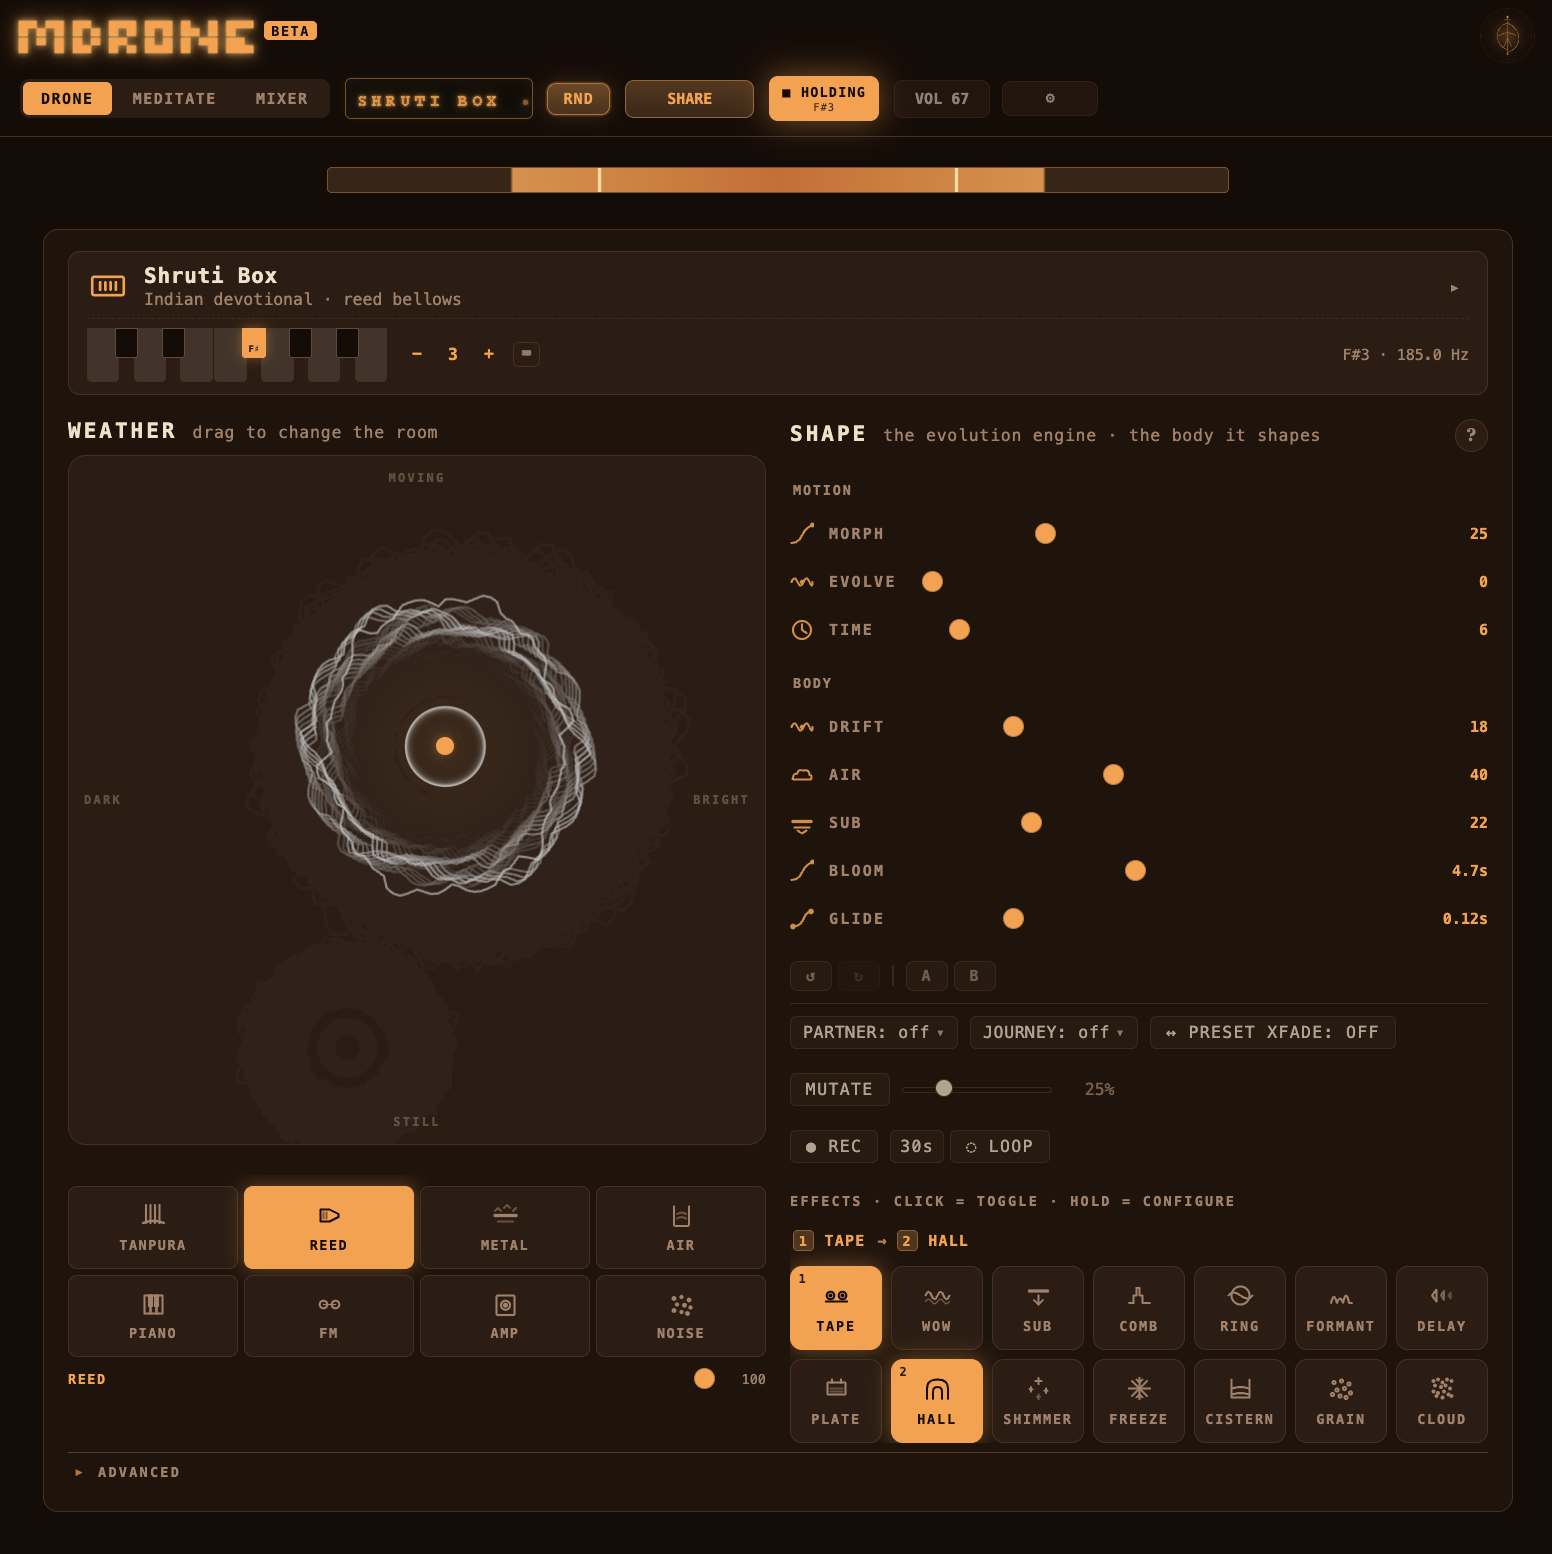
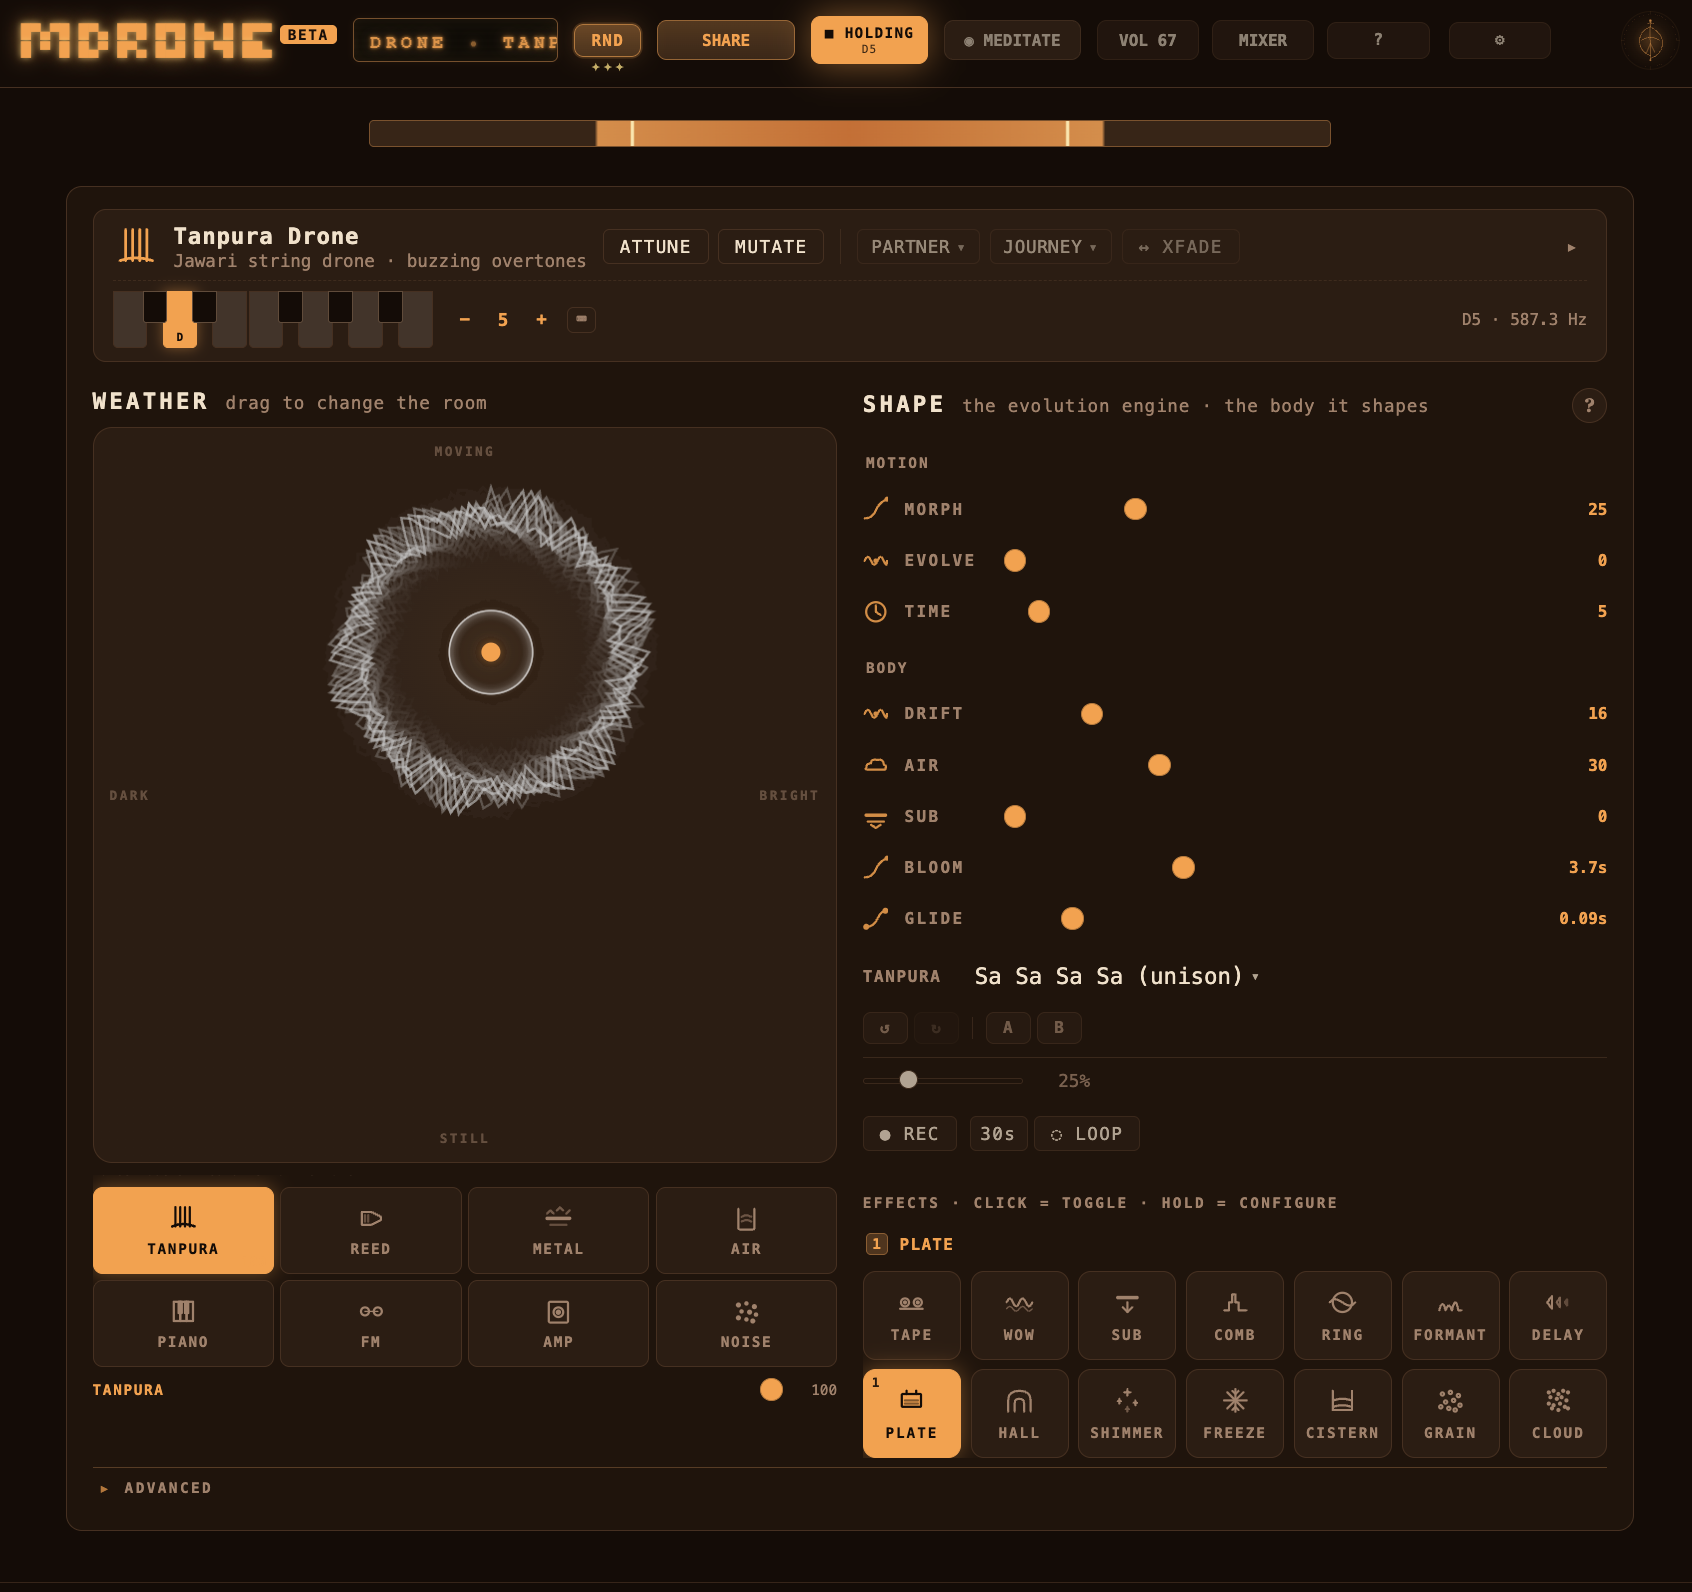
docs: README + HelpModal for inline MEDITATE tile + 25 visualizers
- README Three Views table reframed: ◉ MEDITATE toggle next to HOLD,
  MIXER next to VOL, inline 16:9 preview tile with bottom navigator.
- README MEDITATE section rewritten — 25 visualizers (was 30) after
  removing tuningManuscript / phaseMirror / mirrorGlyphs / haloGlow;
  group lists updated; unified parchment/ember palette callout;
  petroglyph (24 motifs) + illuminatedGlyphs (32 incl. alchemical)
  counts; tape decay reactivity; void monolith new shape; ↻ reset
  and pop-out behavior documented.
- HelpModal 30-second-start splits MEDITATE / MIXER into two lines
  with their new header placements; reference tab updated to 25
  visualizers + tile/HUD navigator copy.
- public/mdrone_screenshot.png — stripped all ancillary chunks
  (tEXt / iTXt / zTXt / eXIf / iCCP / tIME); 21% smaller.

diff --git a/src/components/HelpModal.tsx b/src/components/HelpModal.tsx
@@ -137,7 +137,8 @@ function PlayTab({ onReplay }: { onReplay: (id: FlowId) => void }) {
         <li><strong>HOLD</strong> (or <kbd>Space</kbd>) starts the drone.</li>
         <li><strong>WEATHER</strong> pad — drag to change brightness (X) and motion (Y).</li>
         <li><strong>Presets</strong> — tap the scene name at the top to browse, or <strong>RND</strong> for a safe random scene.</li>
-        <li><strong>MEDITATE</strong> / <strong>MIXER</strong> — optional fullscreen visualizer / master bus.</li>
+        <li><strong>◉ MEDITATE</strong> (next to HOLD) — toggles a live visualizer tile above the WEATHER pad. Tap the canvas to expand to fullscreen.</li>
+        <li><strong>MIXER</strong> (next to VOL) — opens the master bus drawer.</li>
       </ul>
 
       <div className="fx-modal-divider" />
@@ -160,7 +161,7 @@ function ReferenceTab() {
       <div className="fx-modal-section-label">SURFACES</div>
       <ul className="help-list">
         <li><strong>DRONE</strong> — the instrument. Presets, tonic/mode, SHAPE macros, FX chain, ADVANCED (tuning + LFO).</li>
-        <li><strong>MEDITATE</strong> — 30 fullscreen visualizers in 4 groups by function: HARMONIC · LANDSCAPE · RITUAL · VOID/HYPNOTIC (B&amp;W first, then colour within each). ⛶ fullscreen · ↗ pop out · 🎲 random. Double-click to cycle.</li>
+        <li><strong>MEDITATE</strong> — 25 visualizers in 4 groups by function: HARMONIC · LANDSCAPE · RITUAL · VOID/HYPNOTIC (B&amp;W first, then colour within each). All in one warm parchment / ember palette. Toggled inline via the header <strong>◉ MEDITATE</strong> button. Tile navigator: dropdown · ◂ ▸ cycle · ↻ reset · ↗ open. Fullscreen HUD adds 🎲 random + ↗ pop out.</li>
         <li><strong>MIXER</strong> — master bus: HPF, 3-band EQ, <strong>MUD</strong> trim toggle (-3.5 dB @ 300 Hz, on by default), glue, drive, look-ahead brickwall limiter + ceiling, <strong>WIDTH</strong> (always-on bass-mono fold under 120 Hz), <strong>ROOM</strong> (parallel cathedral-IR send), <strong>COLOR</strong> (parallel saturation + air-band exciter). <strong>SAFE</strong> clamps to −6 dBFS for headphones.</li>
       </ul>
 

diff --git a/README.md b/README.md
@@ -53,9 +53,9 @@
 
 | View | Purpose |
 |---|---|
-| **DRONE** | The instrument: header tonic / octave / HOLD transport, preset library, voice stack, macros, breathing LFO, climate XY pad, effect chain, undo/redo + A/B snapshot slots, SCALE editor, GESTURES panel |
-| **MEDITATE** | 30 full-screen visualizers grouped by function: HARMONIC / LANDSCAPE / RITUAL / VOID · HYPNOTIC (B&W first, then colour within each), picked from a dropdown (double-click canvas to cycle). Many accrete complexity over minutes rather than react per-frame: HALO & RAYS, SEDIMENT STRATA, TAPE DECAY, TUNING MANUSCRIPT, RESONANT BODY, PETROGLYPHS, and more. Also: a STEREO VECTORSCOPE, a HARMONIC EMBER polar log plot, and SHORTWAVE STATIC. |
-| **MIXER** | Master bus: HPF, 3-band EQ, MUD trim toggle, glue compression, drive, look-ahead brickwall limiter (Chrome/FF) or native comp (Safari) with ceiling, ROOM (parallel cathedral-IR send), COLOR (parallel saturation + air-band exciter), WIDTH (M/S matrix with bass-mono fold), SAFE (headphone-safe) toggle, CLIP LED (pre-limiter peak), LUFS-S + PEAK metering, FADE controller, final output trim |
+| **DRONE** | The instrument: header tonic / octave / HOLD transport, preset library, voice stack, macros, breathing LFO, climate XY pad, effect chain, undo/redo + A/B snapshot slots, SCALE editor, GESTURES panel. The header's **◉ MEDITATE** toggle (next to HOLD) opens an inline live-visualizer tile above the WEATHER pad; tap the tile's canvas to expand to fullscreen. |
+| **MEDITATE (inline)** | Live preview tile rendered inside DRONE: 16:9 canvas + bottom navigator (visualizer dropdown, ◂ prev / ▸ next / ↻ reset / ↗ open). 25 authored visualizers grouped by function: HARMONIC / LANDSCAPE / RITUAL / VOID · HYPNOTIC (B&W-first within each). All share one warm parchment / ember palette. Many accrete complexity over minutes: SEDIMENT STRATA, TAPE DECAY, RESONANT BODY, PETROGLYPHS, ILLUMINATED GLYPHS, HARMONIC EMBER, SHORTWAVE STATIC. |
+| **MIXER** | Master bus: HPF, 3-band EQ, MUD trim toggle, glue compression, drive, look-ahead brickwall limiter (Chrome/FF) or native comp (Safari) with ceiling, ROOM (parallel cathedral-IR send), COLOR (parallel saturation + air-band exciter), WIDTH (M/S matrix with bass-mono fold), SAFE (headphone-safe) toggle, CLIP LED (pre-limiter peak), LUFS-S + PEAK metering, FADE controller, final output trim. Opened via the header **MIXER** button (next to VOL); slides up as a bottom drawer. |
 
 ---
 
@@ -189,18 +189,20 @@ Master-bus controls matched to the mpump / mloop family vocabulary:
 
 ## MEDITATE view
 
-30 authored visualizers organised into four **function-based** groups in the picker. Within each group, **B&W / monochromatic** visualizers are listed first, then **colour**:
+The header **◉ MEDITATE** toggle (next to HOLD) shows / hides an inline live-visualizer tile rendered above the WEATHER pad inside DRONE. The tile is 16:9 with a bottom **navigator strip**: visualizer dropdown · ◂ prev · ▸ next · ↻ reset · ↗ open. Tap the tile's canvas to expand to a fullscreen overlay; in fullscreen, an idle-fading bottom HUD exposes the same controls plus 🎲 random and ⛶ / ↙ pop-out.
 
-- **HARMONIC** — scenes that show the drone's pitch / tuning / phase / beats / voice identity. pitch beats, phase portrait, phase mirror, stereo vectorscope, tuning manuscript, beating field, resonant body, pitch tonnetz, waveform ring, harmonic ember.
-- **LANDSCAPE** — slow accreting fields: rock carvings, textile, strata, tape. petroglyphs, illuminated glyphs, mirror glyphs, aurora, sediment strata, spectral prayer rug, tape decay.
-- **RITUAL** — ornate / painterly / ceremonial. iron filings, cymatics, crystal lattice, halo & rays, scrying mirror, Rothko field.
+25 authored visualizers organised into four **function-based** groups in the picker. Within each group, **B&W / monochromatic** visualizers are listed first, then **colour**. All share one warm parchment / ember palette so the visualizer surface reads as a coherent family rather than a grab-bag.
+
+- **HARMONIC** — scenes that show the drone's pitch / tuning / phase / beats / voice identity. pitch beats, phase portrait, stereo vectorscope, beating field, resonant body, pitch tonnetz, waveform ring, harmonic ember.
+- **LANDSCAPE** — slow accreting fields: rock carvings, textile, strata, tape. petroglyphs, illuminated glyphs, sediment strata, spectral prayer rug, tape decay.
+- **RITUAL** — ornate / painterly / ceremonial. iron filings, cymatics, crystal lattice, scrying mirror, Rothko field.
 - **VOID · HYPNOTIC** — minimal negative space or stroboscopic / psychotropic. void monolith, moiré field, feedback tunnel, shortwave static, flow field, star gate, dream machine *(10 Hz flicker — warning shown; close eyes for the classic usage)*.
 
-Most visualizers follow a drone-native ethos: slow time, heavy / matte material, no glow or hue-from-audio, no per-frame fast reactivity. They **accrete over minutes** rather than react per-frame — SEDIMENT STRATA deposits rock layers at the bottom and the pile grows upward, TAPE DECAY scars its loop every pass and stamps dropout constellations, TUNING MANUSCRIPT writes ink ticks on a cents grid column by column, PETROGLYPHS carves authentic Camunian motifs onto a weathered cliff face, RESONANT BODY blends the anatomies of whichever voices (TANPURA / REED / METAL / AIR / PIANO / FM / AMP / NOISE) are currently active into a single breathing organism, and HARMONIC EMBER burns the actual harmonic series as log-radius arcs on a polar plot.
+Most visualizers follow a drone-native ethos: slow time, heavy / matte material, no per-frame fast reactivity. They **accrete over minutes** rather than react per-frame — SEDIMENT STRATA deposits rock layers at the bottom and the pile grows upward, PETROGLYPHS carves 24 authentic Camunian motifs (orante, warrior, archer, stag, sun-wheel, hut, scalariform, labyrinth, ibex, dancer, hunter, mounted rider, paddle/scepter, sun face, …) onto a weathered cliff face, ILLUMINATED GLYPHS stacks 32 gilt runes (12 canonical + 12 alternates + 8 alchemical: sun ☉, moon ☾, mercury ☿, venus ♀, mars ♂, saturn ♄, jupiter ♃, fire △) on dark vellum, RESONANT BODY blends the anatomies of whichever voices (TANPURA / REED / METAL / AIR / PIANO / FM / AMP / NOISE) are currently active into a single breathing organism, and HARMONIC EMBER burns the actual harmonic series as log-radius arcs on a polar plot with the core ember sized relative to canvas so loudness visibly scales.
 
-HALO & RAYS reads the spectrum by thirds: low feeds the bass swell ring and background glow, mid feeds the flame ring radius and fire tongues, high drives spark density and ember count. Spectral centroid tilts the palette ±20° (bass-dominant → red, treble → gold). BEATING FIELD takes the active pitch classes and renders their interference as slow horizontal bands, so close pitches visibly beat. STEREO VECTORSCOPE shows L×R correlation via a 30-sample pseudo-stereo trace. SHORTWAVE STATIC gives each pitch class its own carrier on a tuning dial, with a live demodulated oscilloscope trace when the dial locks.
+TAPE DECAY reacts hard to **sound character**: spectral centroid drives the palette hue and scratch tilt, chord changes trigger splice flashes + per-pitch track ticks, transients ignite a row-sliced wow-flutter warp that decays over a few seconds, sustained low-band slowly accumulates a burn factor that scorches the scan band. BEATING FIELD takes the active pitch classes and renders their interference as slow horizontal bands. STEREO VECTORSCOPE shows L×R correlation via a 30-sample pseudo-stereo trace. SHORTWAVE STATIC gives each pitch class its own carrier on a tuning dial, with a live demodulated oscilloscope trace when the dial locks. VOID MONOLITH centres a tall slab whose width breathes with low-band energy, etches active pitches as horizontal bands, and sweeps travelling pulses + horizontal shockwaves on transients.
 
-Dropdown in the toolbar picks the active visualizer; **double-click the canvas** to cycle through. Fullscreen via the ⛶ button, pop-out to a second window via ↗ POP OUT, random-scene without leaving the visualizer via 🎲 RND.
+Dropdown in the tile or HUD picks the active visualizer; ◂ / ▸ cycles. **↻** fully reinitializes — clears every offscreen accumulator + live overlay so accreting visualizers start fresh. ↗ on the tile expands to fullscreen; ⛶ inside the HUD goes to true browser-fullscreen on the canvas. ↗ POP OUT in the HUD streams the canvas to a separate window for second-monitor use. 🎲 RND fires a random scene without leaving the visualizer.
 
 ---
 
